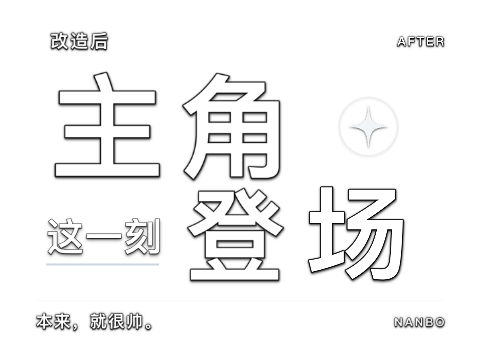
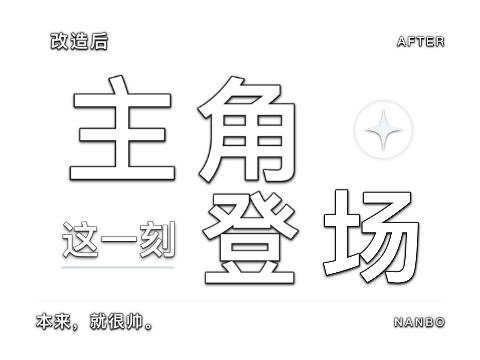
fix: center live card typography within dashed frames

Changed region(s): [[0.0938, 0.1833, 0.875, 0.7944], [0.7188, 0.3056, 0.8438, 0.4278]]

diff --git a/docs/cover-core.js b/docs/cover-core.js
@@ -765,7 +765,7 @@ var NBOCoverCore = (function(exports) {
 		path(ctx, movingLower.x, movingLower.y, lower.width, lower.height, lower.radius);
 		ctx.clip();
 		const fit = Math.min(1, (lower.width - 36 * s) / Math.max(1, text.right - text.left), (lower.height - 36 * s) / Math.max(1, text.bottom - text.top));
-		ctx.translate(lower.x + 18 * s - text.left * fit, movingLower.y + (lower.height - (text.bottom - text.top) * fit) / 2 - text.top * fit);
+		ctx.translate(lower.x + (lower.width - (text.right - text.left) * fit) / 2 - text.left * fit, movingLower.y + (lower.height - (text.bottom - text.top) * fit) / 2 - text.top * fit);
 		ctx.scale(fit, fit);
 		drawText(ctx, settings, width, height, null, frame.lines, "bottom-up");
 		ctx.restore();
@@ -1345,6 +1345,25 @@ var NBOCoverCore = (function(exports) {
 		const dividerY = y + relativeDividerY;
 		const subtitleBaseline = y + relativeSubtitleBaseline;
 		const bottomUp = textOrder === "bottom-up";
+		const inkBounds = {
+			left: Infinity,
+			right: -Infinity,
+			top: Infinity,
+			bottom: -Infinity
+		};
+		const includeInkRect = (left, top, right, bottom) => {
+			inkBounds.left = Math.min(inkBounds.left, left);
+			inkBounds.right = Math.max(inkBounds.right, right);
+			inkBounds.top = Math.min(inkBounds.top, top);
+			inkBounds.bottom = Math.max(inkBounds.bottom, bottom);
+		};
+		const recordInk = bottomUp ? (text, drawX, baseline, limit) => {
+			if (!text.trim()) return;
+			const metrics = context.measureText(text);
+			const squeeze = Math.min(1, (limit ?? Infinity) / Math.max(1, metrics.width));
+			const stroke = textStroke > 0 ? context.lineWidth / 2 : 0;
+			includeInkRect(drawX - metrics.actualBoundingBoxLeft * squeeze - stroke, baseline - metrics.actualBoundingBoxAscent - stroke, drawX + metrics.actualBoundingBoxRight * squeeze + stroke, baseline + metrics.actualBoundingBoxDescent + stroke);
+		} : void 0;
 		const mirrorY = 2 * y + blockTop + blockBottom;
 		const firstDrawBaseline = bottomUp ? mirrorY - y + topHeadlineInk.ascent - topHeadlineInk.descent : y;
 		const secondDrawBaseline = bottomUp ? mirrorY - secondBaseline + activeHeadlineInk.ascent - activeHeadlineInk.descent : secondBaseline;
@@ -1364,6 +1383,7 @@ var NBOCoverCore = (function(exports) {
 		beginLine(0);
 		context.fillStyle = settings.topColor;
 		context.font = `900 ${topFontSize}px sans-serif`;
+		recordInk?.(settings.topText || "上行标题", x, firstDrawBaseline, maxWidth);
 		if (textStroke > 0) context.strokeText(settings.topText || "上行标题", x, firstDrawBaseline, maxWidth);
 		context.fillText(settings.topText || "上行标题", x, firstDrawBaseline, maxWidth);
 		endLine();
@@ -1371,6 +1391,7 @@ var NBOCoverCore = (function(exports) {
 			beginLine(1);
 			context.fillStyle = settings.bottomColor;
 			context.font = `900 ${bottomFontSize}px sans-serif`;
+			recordInk?.(settings.bottomText, x, secondDrawBaseline, maxWidth);
 			if (textStroke > 0) context.strokeText(settings.bottomText, x, secondDrawBaseline, maxWidth);
 			context.fillText(settings.bottomText, x, secondDrawBaseline, maxWidth);
 			endLine();
@@ -1389,6 +1410,7 @@ var NBOCoverCore = (function(exports) {
 			dividerGradient.addColorStop(.82, colorWithAlpha(settings.dividerColor, 1));
 			dividerGradient.addColorStop(1, colorWithAlpha(settings.dividerColor, 0));
 			context.fillStyle = dividerGradient;
+			if (bottomUp) includeInkRect(Math.round(dividerX), dividerDrawY, Math.round(dividerX) + Math.round(dividerWidth), dividerDrawY + dividerThickness);
 			context.fillRect(Math.round(dividerX), dividerDrawY, Math.round(dividerWidth), dividerThickness);
 		}
 		if (settings.subtitle.trim()) {
@@ -1398,7 +1420,7 @@ var NBOCoverCore = (function(exports) {
 			context.shadowOffsetY = width * .006 * textShadow;
 			context.fillStyle = settings.subtitleColor;
 			context.font = `400 ${subtitleFontSize}px sans-serif`;
-			drawWrappedText(context, settings.subtitle, x, bottomUp ? reversedSubtitleBaseline : subtitleDrawBaseline, maxWidth, subtitleLineHeight, textAlign);
+			drawWrappedText(context, settings.subtitle, x, bottomUp ? reversedSubtitleBaseline : subtitleDrawBaseline, maxWidth, subtitleLineHeight, textAlign, recordInk);
 		}
 		endLine();
 		context.font = `900 ${topFontSize}px sans-serif`;
@@ -1416,7 +1438,7 @@ var NBOCoverCore = (function(exports) {
 			bottom: y + blockBottom
 		};
 		context.restore();
-		return bounds;
+		return bottomUp ? inkBounds : bounds;
 	}
 	function drawWatermark(context, watermark, settings, width, height) {
 		const bounds = getWatermarkVisibleBounds(watermark);
@@ -1505,13 +1527,14 @@ var NBOCoverCore = (function(exports) {
 			descent: descent || fallbackSize * .22
 		};
 	}
-	function drawWrappedText(context, text, x, y, maxWidth, lineHeight, align) {
+	function drawWrappedText(context, text, x, y, maxWidth, lineHeight, align, recordInk) {
 		const characters = Array.from(text);
 		const lines = Array.from({ length: Math.ceil(characters.length / 12) }, (_, index) => characters.slice(index * 12, index * 12 + 12).join(""));
 		context.textAlign = align;
 		lines.slice(0, 2).forEach((line, index) => {
 			const lineY = y + index * lineHeight;
 			if (Array.from(line).length !== 12) {
+				recordInk?.(line, x, lineY, maxWidth);
 				if (context.lineWidth > 0) context.strokeText(line, x, lineY, maxWidth);
 				context.fillText(line, x, lineY, maxWidth);
 				return;
@@ -1526,6 +1549,7 @@ var NBOCoverCore = (function(exports) {
 			let cursor = left;
 			context.textAlign = "left";
 			glyphs.forEach(({ character, metrics }, glyphIndex) => {
+				recordInk?.(character, cursor + (metrics.actualBoundingBoxLeft || 0), lineY);
 				if (context.lineWidth > 0) context.strokeText(character, cursor + (metrics.actualBoundingBoxLeft || 0), lineY);
 				context.fillText(character, cursor + (metrics.actualBoundingBoxLeft || 0), lineY);
 				cursor += widths[glyphIndex] + gap;

diff --git a/app/cover/core/render-core.ts b/app/cover/core/render-core.ts
@@ -643,6 +643,25 @@ export function drawCoverText(
   // Reverse row positions inside the measured block, keeping every glyph upright
   // and its original font, color, ink spacing and editable field unchanged.
   const bottomUp = textOrder === "bottom-up";
+  // Live cards center the actual ink, including the divider. Normal covers keep
+  // their original advance-width layout. Measure every row even during its reveal.
+  const inkBounds = { left: Infinity, right: -Infinity, top: Infinity, bottom: -Infinity };
+  const includeInkRect = (left: number, top: number, right: number, bottom: number) => {
+    inkBounds.left = Math.min(inkBounds.left, left);
+    inkBounds.right = Math.max(inkBounds.right, right);
+    inkBounds.top = Math.min(inkBounds.top, top);
+    inkBounds.bottom = Math.max(inkBounds.bottom, bottom);
+  };
+  const recordInk = bottomUp ? (text: string, drawX: number, baseline: number, limit?: number) => {
+    if (!text.trim()) return;
+    const metrics = context.measureText(text);
+    const squeeze = Math.min(1, (limit ?? Infinity) / Math.max(1, metrics.width));
+    const stroke = textStroke > 0 ? context.lineWidth / 2 : 0;
+    includeInkRect(drawX - metrics.actualBoundingBoxLeft * squeeze - stroke,
+      baseline - metrics.actualBoundingBoxAscent - stroke,
+      drawX + metrics.actualBoundingBoxRight * squeeze + stroke,
+      baseline + metrics.actualBoundingBoxDescent + stroke);
+  } : undefined;
   const mirrorY = 2 * y + blockTop + blockBottom;
   const firstDrawBaseline = bottomUp ? mirrorY - y + topHeadlineInk.ascent - topHeadlineInk.descent : y;
   const secondDrawBaseline = bottomUp ? mirrorY - secondBaseline + activeHeadlineInk.ascent - activeHeadlineInk.descent : secondBaseline;
@@ -663,6 +682,7 @@ export function drawCoverText(
   beginLine(0);
   context.fillStyle = settings.topColor;
   context.font = `900 ${topFontSize}px sans-serif`;
+  recordInk?.(settings.topText || "上行标题", x, firstDrawBaseline, maxWidth);
   if (textStroke > 0) context.strokeText(settings.topText || "上行标题", x, firstDrawBaseline, maxWidth);
   context.fillText(settings.topText || "上行标题", x, firstDrawBaseline, maxWidth);
   endLine();
@@ -671,6 +691,7 @@ export function drawCoverText(
     beginLine(1);
     context.fillStyle = settings.bottomColor;
     context.font = `900 ${bottomFontSize}px sans-serif`;
+    recordInk?.(settings.bottomText, x, secondDrawBaseline, maxWidth);
     if (textStroke > 0) context.strokeText(settings.bottomText, x, secondDrawBaseline, maxWidth);
     context.fillText(settings.bottomText, x, secondDrawBaseline, maxWidth);
     endLine();
@@ -690,6 +711,7 @@ export function drawCoverText(
     dividerGradient.addColorStop(0.82, colorWithAlpha(settings.dividerColor, 1));
     dividerGradient.addColorStop(1, colorWithAlpha(settings.dividerColor, 0));
     context.fillStyle = dividerGradient;
+    if (bottomUp) includeInkRect(Math.round(dividerX), dividerDrawY, Math.round(dividerX) + Math.round(dividerWidth), dividerDrawY + dividerThickness);
     context.fillRect(Math.round(dividerX), dividerDrawY, Math.round(dividerWidth), dividerThickness);
   }
 
@@ -708,6 +730,7 @@ export function drawCoverText(
       maxWidth,
       subtitleLineHeight,
       textAlign,
+      recordInk,
     );
   }
   endLine();
@@ -727,7 +750,7 @@ export function drawCoverText(
     bottom: y + blockBottom,
   };
   context.restore();
-  return bounds;
+  return bottomUp ? inkBounds : bounds;
 }
 
 function drawWatermark(
@@ -836,6 +859,7 @@ function drawWrappedText(
   maxWidth: number,
   lineHeight: number,
   align: CanvasTextAlign,
+  recordInk?: (text: string, x: number, y: number, maxWidth?: number) => void,
 ) {
   const characters = Array.from(text);
   const lines = Array.from({ length: Math.ceil(characters.length / 12) }, (_, index) =>
@@ -846,6 +870,7 @@ function drawWrappedText(
   lines.slice(0, 2).forEach((line, index) => {
     const lineY = y + index * lineHeight;
     if (Array.from(line).length !== 12) {
+      recordInk?.(line, x, lineY, maxWidth);
       if (context.lineWidth > 0) context.strokeText(line, x, lineY, maxWidth);
       context.fillText(line, x, lineY, maxWidth);
       return;
@@ -859,6 +884,7 @@ function drawWrappedText(
     let cursor = left;
     context.textAlign = "left";
     glyphs.forEach(({ character, metrics }, glyphIndex) => {
+      recordInk?.(character, cursor + (metrics.actualBoundingBoxLeft || 0), lineY);
       if (context.lineWidth > 0) context.strokeText(character, cursor + (metrics.actualBoundingBoxLeft || 0), lineY);
       context.fillText(character, cursor + (metrics.actualBoundingBoxLeft || 0), lineY);
       cursor += widths[glyphIndex] + gap;

diff --git a/app/cover/core/card-pair.ts b/app/cover/core/card-pair.ts
@@ -101,7 +101,9 @@ export function drawLiveCardPair(ctx: CanvasRenderingContext2D, frame: CoverLive
   panel(ctx, movingLower, frame, s, path);
   path(ctx, movingLower.x, movingLower.y, lower.width, lower.height, lower.radius); ctx.clip();
   const fit = Math.min(1, (lower.width - 36 * s) / Math.max(1, text.right - text.left), (lower.height - 36 * s) / Math.max(1, text.bottom - text.top));
-  ctx.translate(lower.x + 18 * s - text.left * fit, movingLower.y + (lower.height - (text.bottom - text.top) * fit) / 2 - text.top * fit);
+  // Anchor the completed block, not the currently visible rows, so later reveals
+  // never move a line that has already appeared.
+  ctx.translate(lower.x + (lower.width - (text.right - text.left) * fit) / 2 - text.left * fit, movingLower.y + (lower.height - (text.bottom - text.top) * fit) / 2 - text.top * fit);
   ctx.scale(fit, fit);
   drawText(ctx, settings, width, height, null, frame.lines, "bottom-up");
   ctx.restore();

diff --git a/docs/live/controls.js b/docs/live/controls.js
@@ -81,7 +81,7 @@ export function mountLiveControls({host,onToggle,onRefresh,onAssetsChanged=()=>{
   async function loadAnimation(){
     const generation=++loadGeneration;atlas=null;onAssetsChanged();onRefresh();play.disabled=exportButton.disabled=true;status.textContent='正在加载卡片…';
     try {
-      const next=[await loadImage('cards/pair/hero.webp')];
+      const next=[await loadImage('cards/pair/hero.webp?v=20260908-card-center')];
       if(disposed||!enabled||generation!==loadGeneration)return;
       atlas=next;play.disabled=exportButton.disabled=false;status.textContent='';onAssetsChanged();onRefresh();
       if(!matchMedia('(prefers-reduced-motion: reduce)').matches)playAnimation();

diff --git a/public/live/controls.js b/public/live/controls.js
@@ -81,7 +81,7 @@ export function mountLiveControls({host,onToggle,onRefresh,onAssetsChanged=()=>{
   async function loadAnimation(){
     const generation=++loadGeneration;atlas=null;onAssetsChanged();onRefresh();play.disabled=exportButton.disabled=true;status.textContent='正在加载卡片…';
     try {
-      const next=[await loadImage('cards/pair/hero.webp')];
+      const next=[await loadImage('cards/pair/hero.webp?v=20260908-card-center')];
       if(disposed||!enabled||generation!==loadGeneration)return;
       atlas=next;play.disabled=exportButton.disabled=false;status.textContent='';onAssetsChanged();onRefresh();
       if(!matchMedia('(prefers-reduced-motion: reduce)').matches)playAnimation();

diff --git a/scripts/live-hero-source/card.css b/scripts/live-hero-source/card.css
@@ -23,3 +23,7 @@
 .transition-effects{position:absolute;inset:0;z-index:7;pointer-events:none;opacity:.28}
 .front .state,.front .serial,.front .overline,.front .hero,.front .tagline,.front .brand,.back .overline{-webkit-text-stroke:2px rgba(0,0,0,.78);paint-order:stroke fill;text-shadow:0 1px 3px #000c,0 3px 7px #0008}
 .art-title{filter:drop-shadow(0 2px 2px #0009)}.aux-title{filter:drop-shadow(0 1px 1px #000) drop-shadow(0 0 2px #000b)}
+
+/* Center the completed main ink (46..404, 72..282 at half-size) in the
+   480x360 card. Move its shared parent so every original glyph motion is kept. */
+.back .heading{transform:translate(30px,6px)}

diff --git a/app/cover/CoverLiveControls.tsx b/app/cover/CoverLiveControls.tsx
@@ -35,7 +35,7 @@ export default function CoverLiveControls(props: Props) {
     button.disabled = true;
     try {
       const assetBase = new URL("/live/", window.location.origin);
-      const liveModule = await import(/* @vite-ignore */ new URL("controls.js?v=20260908-live-name", assetBase).href);
+      const liveModule = await import(/* @vite-ignore */ new URL("controls.js?v=20260908-card-center", assetBase).href);
       if (!mounted.current || !hostRef.current) return;
       const controller = liveModule.mountLiveControls({ host, assetBase,
         motionAt: getLiveMotionState,

diff --git a/docs/cover.js b/docs/cover.js
@@ -1914,7 +1914,7 @@ $("#startLive").addEventListener("click", async (event) => {
   const button = event.currentTarget;
   button.disabled = true;
   try {
-    const { mountLiveControls } = await import("./live/controls.js?v=20260908-live-name");
+    const { mountLiveControls } = await import("./live/controls.js?v=20260908-card-center");
     liveController = mountLiveControls({
       host: $("#liveControlHost"),
       motionAt: getLiveMotionState,

diff --git a/docs/cover.html b/docs/cover.html
@@ -251,7 +251,7 @@
     </div>
     <script src="./compare-layout.js?v=20260908-card-pair"></script>
     <script src="./drop-upload.js?v=20260830-finder-drag-upload"></script>
-    <script src="./cover-core.js?v=20260908-live-name"></script>
-    <script src="./cover.js?v=20260908-live-name"></script>
+    <script src="./cover-core.js?v=20260908-card-center"></script>
+    <script src="./cover.js?v=20260908-card-center"></script>
   </body>
 </html>
